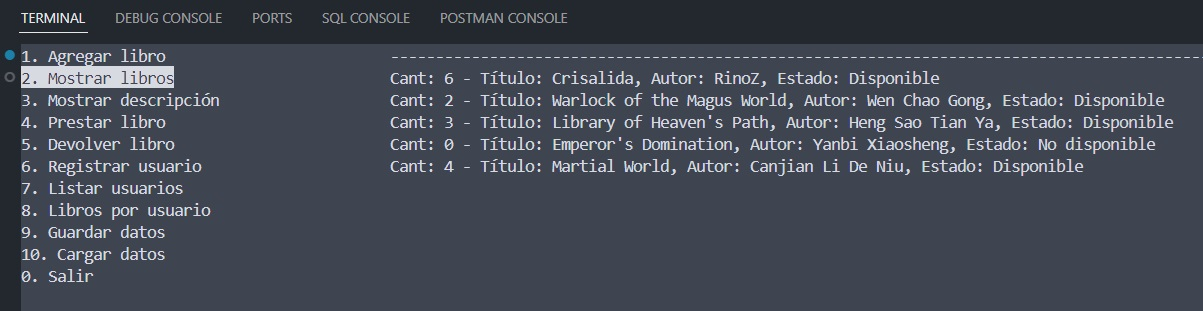
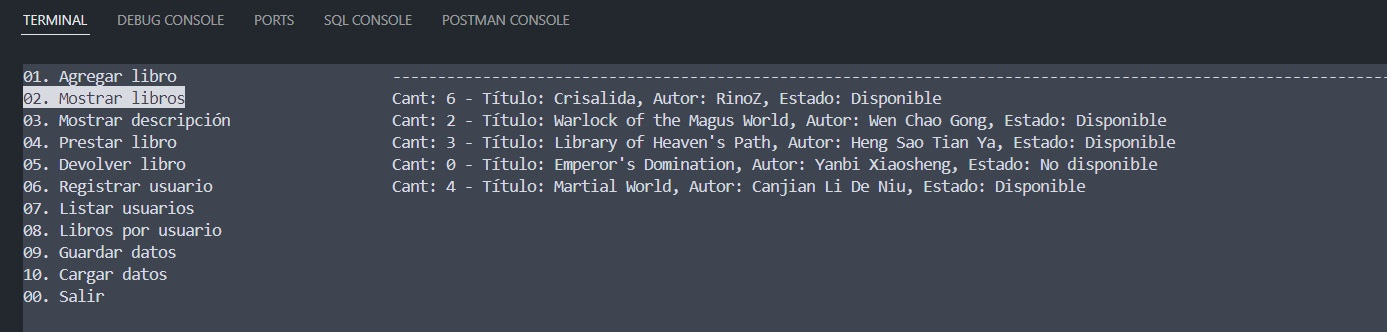
Modularización de codigo en diferentes archivos

Changed region(s): [[0.0, 0.0289, 1.0, 0.926], [0.2768, 0.2315, 0.9842, 0.5788]]

diff --git a/main.py b/main.py
@@ -1,5 +1,9 @@
 import curses
 from biblioteca.biblioteca import Biblioteca
+from biblioteca.bienvenida import bienvenida
+from biblioteca.menu import draw_menu
+from biblioteca.input_handler import get_input
+from biblioteca.content_handler import draw_content
 
 def main(stdscr):
     curses.curs_set(0)
@@ -11,66 +15,13 @@ def main(stdscr):
 
     current_row_idx = 0
     menu = [
-        '1. Agregar libro', '2. Mostrar libros', '3. Mostrar descripción', '4. Prestar libro',
-        '5. Devolver libro', '6. Registrar usuario', '7. Listar usuarios',
-        '8. Libros por usuario', '9. Guardar datos', '10. Cargar datos', '0. Salir'
+        '01. Agregar libro', '02. Mostrar libros', '03. Mostrar descripción', '04. Prestar libro',
+        '05. Devolver libro', '06. Registrar usuario', '07. Listar usuarios',
+        '08. Libros por usuario', '09. Guardar datos', '10. Cargar datos', '00. Salir'
     ]
 
-    bienvenida = [
-            "Bienvenido a la Biblioteca!",
-            "Seleccione una opción del menú para empezar.",
-            "-------------------------------------------------------------------------------------",
-            "-------------------------------------------------------------------------------------",
-            "",
-            "  ##       ###               #####          ###                              ###",
-            " #  #        #             ##                 ##                              ##",
-            "#    #       #   #####     ##          ####   ##           ###        ###     ##",
-            "#    #   #####       #       #####   ##       ##         ##   ##    ##   ##   ##",
-            "######  ##  ##   #####           ##  ##       ######    ##     ##  ##     ##  ##",
-            "#    #  ##  ##  ##  ##           ##  ##       ##    ##   ##   ##    ##   ##   ##   #",
-            "#    #  ######  ######     ######     ####    ###   ##     ###        ###     ######",
-            "",
-            "-------------------------------------------------------------------------------------",
-            "-------------------------------------------------------------------------------------",
-            "By Gary Y. Martinez Alvis", 
-            "v01/06-2024"
-        ]
-
-    def draw_menu():
-        h, w = stdscr.getmaxyx()
-        menu_width = int(w * 0.2)
-        for idx, row in enumerate(menu):
-            x = 0
-            y = idx
-            if idx == current_row_idx:
-                stdscr.attron(curses.color_pair(1))
-                stdscr.addstr(y, x, row[:menu_width])
-                stdscr.attroff(curses.color_pair(1))
-            else:
-                stdscr.addstr(y, x, row[:menu_width])
-        stdscr.refresh()
-
-    def draw_content(content):
-        h, w = stdscr.getmaxyx()
-        content_x = int(w * 0.2) + 1
-        for idx, row in enumerate(content):
-            stdscr.addstr(idx, content_x, row[:w - content_x - 1])
-        stdscr.refresh()
-
-    def get_input(prompt, max_length=40):
-        h, w = stdscr.getmaxyx()
-        content_x = int(w * 0.2) + 1
-        stdscr.addstr(0, content_x, prompt)
-        stdscr.refresh()
-        curses.echo()
-        user_input = stdscr.getstr(1, content_x, max_length).decode("utf-8")
-        curses.noecho()
-        stdscr.clear()
-        draw_menu()
-        return user_input
-
-    draw_menu()
-    draw_content(bienvenida)
+    draw_menu(stdscr, menu, current_row_idx)
+    draw_content(stdscr, bienvenida)
 
     while True:
         key = stdscr.getch()
@@ -81,47 +32,47 @@ def main(stdscr):
             current_row_idx += 1
         elif key == curses.KEY_ENTER or key in [10, 13]:
             stdscr.clear()
-            draw_menu()
+            draw_menu(stdscr, menu, current_row_idx)
             if current_row_idx == 0:
-                titulo = get_input("Título del libro: ")
-                autor = get_input("Autor del libro: ")
-                descripcion = get_input("Descripción del libro: ", max_length=200)
-                cantidad = get_input("Cantidad de libros (por defecto 1): ")
+                titulo = get_input(stdscr, "Título del libro: ")
+                autor = get_input(stdscr, "Autor del libro: ")
+                descripcion = get_input(stdscr, "Descripción del libro: ", max_length=200)
+                cantidad = get_input(stdscr, "Cantidad de libros (por defecto 1): ")
                 cantidad = int(cantidad) if cantidad.isdigit() else 1
                 biblioteca.agregar_libro(titulo, autor, descripcion, cantidad)
-                draw_content(["Libro agregado correctamente."])
+                draw_content(stdscr, ["Libro agregado correctamente."])
             elif current_row_idx == 1:
                 biblioteca.mostrar_libros(stdscr)
             elif current_row_idx == 2:
-                titulo = get_input("Título del libro: ")
+                titulo = get_input(stdscr, "Título del libro: ")
                 biblioteca.mostrar_descripcion_libro(stdscr, titulo)
             elif current_row_idx == 3:
-                titulo = get_input("Título del libro: ")
-                nombre_usuario = get_input("Nombre del usuario: ")
+                titulo = get_input(stdscr, "Título del libro: ")
+                nombre_usuario = get_input(stdscr, "Nombre del usuario: ")
                 biblioteca.prestar_libro(stdscr, titulo, nombre_usuario)
             elif current_row_idx == 4:
-                titulo = get_input("Título del libro: ")
-                nombre_usuario = get_input("Nombre del usuario: ")
+                titulo = get_input(stdscr, "Título del libro: ")
+                nombre_usuario = get_input(stdscr, "Nombre del usuario: ")
                 biblioteca.devolver_libro(stdscr, titulo, nombre_usuario)
             elif current_row_idx == 5:
-                nombre = get_input("Nombre del usuario: ")
+                nombre = get_input(stdscr, "Nombre del usuario: ")
                 biblioteca.registrar_usuario(stdscr, nombre)
             elif current_row_idx == 6:
                 biblioteca.listar_usuarios(stdscr)
             elif current_row_idx == 7:
-                nombre_usuario = get_input("Nombre del usuario: ")
+                nombre_usuario = get_input(stdscr, "Nombre del usuario: ")
                 biblioteca.listar_libros_usuario(stdscr, nombre_usuario)
             elif current_row_idx == 8:
                 biblioteca.guardar_datos()
-                draw_content(["Datos guardados correctamente."])
+                draw_content(stdscr, ["Datos guardados correctamente."])
             elif current_row_idx == 9:
                 biblioteca.cargar_datos()
-                draw_content(["Datos cargados correctamente."])
+                draw_content(stdscr, ["Datos cargados correctamente."])
             elif current_row_idx == 10:
                 biblioteca.guardar_datos()
-                draw_content(["Saliendo..."])
+                draw_content(stdscr, ["Saliendo..."])
                 break
-        draw_menu()
+        draw_menu(stdscr, menu, current_row_idx)
 
 if __name__ == "__main__":
     curses.wrapper(main)

diff --git a/biblioteca/bienvenida.py b/biblioteca/bienvenida.py
@@ -1,0 +1,19 @@
+bienvenida = [
+    "Bienvenido a la Biblioteca!",
+    "Seleccione una opción del menú para empezar.",
+    "-------------------------------------------------------------------------------------",
+    "-------------------------------------------------------------------------------------",
+    "",
+    "  ##       ###               #####          ###                              ###",
+    " #  #        #             ##                 ##                              ##",
+    "#    #       #   #####     ##          ####   ##           ###        ###     ##",
+    "#    #   #####       #       #####   ##       ##         ##   ##    ##   ##   ##",
+    "######  ##  ##   #####           ##  ##       ######    ##     ##  ##     ##  ##",
+    "#    #  ##  ##  ##  ##           ##  ##       ##    ##   ##   ##    ##   ##   ##   #",
+    "#    #  ######  ######     ######     ####    ###   ##     ###        ###     ######",
+    "",
+    "-------------------------------------------------------------------------------------",
+    "-------------------------------------------------------------------------------------",
+    "By Gary Y. Martinez Alvis", 
+    "v01/06-2024"
+]

diff --git a/biblioteca/menu.py b/biblioteca/menu.py
@@ -1,0 +1,15 @@
+import curses
+
+def draw_menu(stdscr, menu, current_row_idx):
+    h, w = stdscr.getmaxyx()
+    menu_width = int(w * 0.2)
+    for idx, row in enumerate(menu):
+        x = 0
+        y = idx
+        if idx == current_row_idx:
+            stdscr.attron(curses.color_pair(1))
+            stdscr.addstr(y, x, row[:menu_width])
+            stdscr.attroff(curses.color_pair(1))
+        else:
+            stdscr.addstr(y, x, row[:menu_width])
+    stdscr.refresh()

diff --git a/biblioteca/input_handler.py b/biblioteca/input_handler.py
@@ -1,0 +1,12 @@
+import curses
+
+def get_input(stdscr, prompt, max_length=40):
+    h, w = stdscr.getmaxyx()
+    content_x = int(w * 0.2) + 1
+    stdscr.addstr(0, content_x, prompt)
+    stdscr.refresh()
+    curses.echo()
+    user_input = stdscr.getstr(1, content_x, max_length).decode("utf-8")
+    curses.noecho()
+    stdscr.clear()
+    return user_input

diff --git a/biblioteca/content_handler.py b/biblioteca/content_handler.py
@@ -1,0 +1,6 @@
+def draw_content(stdscr, content):
+    h, w = stdscr.getmaxyx()
+    content_x = int(w * 0.2) + 1
+    for idx, row in enumerate(content):
+        stdscr.addstr(idx, content_x, row[:w - content_x - 1])
+    stdscr.refresh()
